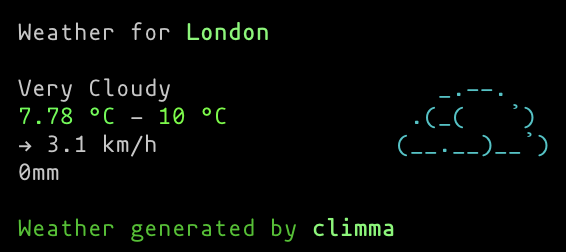
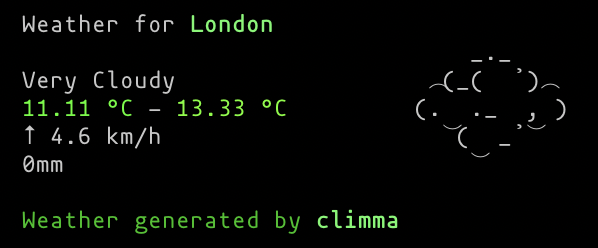
Update README andexample

diff --git a/README.md b/README.md
@@ -5,8 +5,11 @@
 
 ## Features
 
-- Supports Openweathermap for now
-- TypeScript types
+- Uses Openweathermap API
+- Rendered with [Ink](https://github.com/vadimdemedes/ink)
+- Awesome ASCII art for weather conditions
+- Autoformatting with Prettier
+- Typescript support
 
 ## Installation
 
@@ -26,13 +29,19 @@ Afterwards, edit it with the credentials for your API:
 API_KEY=YOUR_KEY_HERE
 ```
 
+> Tip: If you want a city with a composed name, e.g. Rio de Janeiro, use double quotes around the city name:
+> 
+```bash
+$ climma "Rio de Janeiro"
+```
+
 ## Roadmap
 
 - Support for multiple providers
-- Tuning configuration for metric system and other informations
-- ASCII for Conditions
+- Tuning configuration for metric system and other informations. Currently **climma** uses the metric system.
+- Next days forecast
+- Complete ASCII art library
 - Testing with Jest
-- Autoformatting with Prettier
 
 ## Contributing
 
